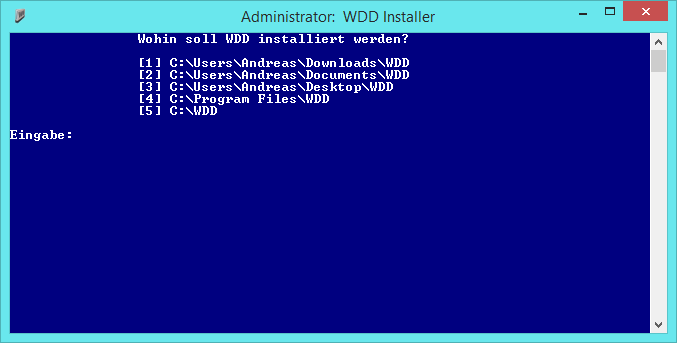
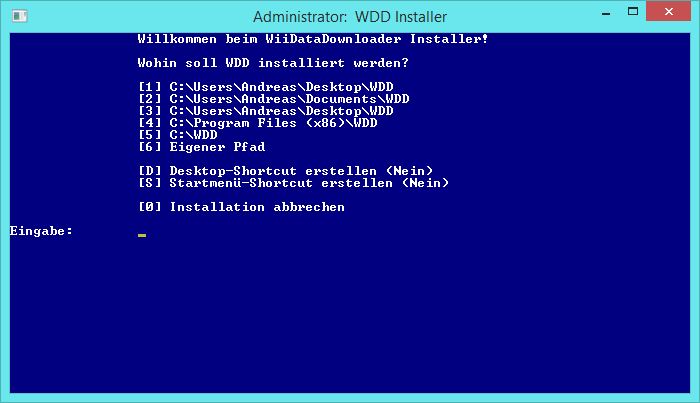
Bilder aktualisiert und neuen Installer mehr promoted

diff --git a/pages/download.php b/pages/download.php
@@ -11,8 +11,8 @@ include("templates/navbar.php");
 	    		<div class="col-lg-12">
 					<h1><b>Downloade</b> WDD</h1>
 					<h3>WiiDataDownloader - ein Wii-Homebrew-Downloader für Windows.</h3>
-		<a class="btn btn-lg btn-danger" href="https://raw.githubusercontent.com/Brawl345/WiiDataDownloader/master/WDD%20installieren.exe" role="button">Download</a><br><br>
-		<a class="btn btn-lg btn-warning" href="https://raw.githubusercontent.com/WiiDatabase/Inno-Setups/master/WiiDataDownloader/Output/WDD-setup.exe" role="button">Teste den neuen Installer</a><br>
+					<a class="btn btn-lg btn-success" href="https://raw.githubusercontent.com/WiiDatabase/Inno-Setups/master/WiiDataDownloader/Output/WDD-setup.exe" role="button">Download</a><br><br>
+					<a class="btn btn-small btn-link" href="https://raw.githubusercontent.com/Brawl345/WiiDataDownloader/master/WDD%20installieren.exe" role="button">Benutze den alten Installer</a><br>
 					<h3>(fr&uuml;he Alpha)</h3>
 	    		</div>
 	    	</div>
@@ -23,10 +23,13 @@ include("templates/navbar.php");
 	<div class="container">
 	<div class="row centered">
 	    <div class="col-lg-12">
+		  <h3>So installierst du den WiiDataDownloader mit unserem neuen Installer:</h3>
+		  <a href="img/wddinstaller-new.png"><img class="img-responsive responsive-centered" src="img/wddinstaller-new.png" alt="Installiere WDD"></a><br>
+		  <h3>Alter Installer:</h3>
           <a href="img/wddinstaller1.png"><img class="img-responsive responsive-centered" src="img/wddinstaller1.png" alt="Führe den Installer aus"></a><br>
-          <a href="img/wddinstaller4.png"><img class="img-responsive responsive-centered" src="img/wddinstaller2.png" alt="Bestätige die UAC-Warnung"></a><br>
-          <a href="img/wddinstaller5.png"><img class="img-responsive responsive-centered" src="img/wddinstaller3.png" alt="Wähle einen Installationsordner"></a><br>
-          <a href="img/wddinstaller6.png"><img class="img-responsive responsive-centered" src="img/wddinstaller4.png" alt="Fertig!"></a><br>
+          <a href="img/wddinstaller2.png"><img class="img-responsive responsive-centered" src="img/wddinstaller2.png" alt="Bestätige die UAC-Warnung"></a><br>
+          <a href="img/wddinstaller3.png"><img class="img-responsive responsive-centered" src="img/wddinstaller3.png" alt="Wähle einen Installationsordner"></a><br>
+          <a href="img/wddinstaller4.png"><img class="img-responsive responsive-centered" src="img/wddinstaller4.png" alt="Fertig!"></a><br>
 			</div>
 			</div>
 			</div>

diff --git a/pages/index.php b/pages/index.php
@@ -23,7 +23,7 @@ include("templates/navbar.php");
 	    			<img class="hidden-xs hidden-sm hidden-md" src="img/arrow1.png" alt="Pfeil">
 	    		</div>
 	    		<div class="col-lg-8">
-	    			<img class="img-responsive" src="img/app-bg.png" alt="WDD Screenshot"><br>
+	    			<img class="img-responsive" src="img/wdd.png" alt="WDD Screenshot"><br>
 	    		</div>
 	    		<div class="col-lg-2">
 	    			<br>
@@ -75,15 +75,23 @@ include("templates/navbar.php");
 					  <ol class="carousel-indicators">
 					    <li data-target="#carousel-example-generic" data-slide-to="0" class="active"></li>
 					    <li data-target="#carousel-example-generic" data-slide-to="1"></li>
+						<li data-target="#carousel-example-generic" data-slide-to="2"></li>
+						<li data-target="#carousel-example-generic" data-slide-to="3"></li>
 					  </ol>
 					
 					  <!-- Wrapper for slides -->
 					  <div class="carousel-inner">
 					    <div class="item active">
-					      <img src="img/wdd1.png" height="643" width="820" alt="Downloadansicht">
+					      <a href="img/wdd.png"><img src="img/wdd.png" alt="Hauptmenü"></a>
 					    </div>
 					    <div class="item">
-					      <img src="img/wdd2.png" height="403" width="700" alt="Optionen">
+					      <a href="img/wdd1.png"><img src="img/wdd1.png" alt="Downloadansicht"></a>
+					    </div>
+					    <div class="item">
+					      <a href="img/wdd2.png"><img src="img/wdd2.png" alt="Optionen"></a>
+					    </div>
+						<div class="item">
+					      <a href="img/wdd3.png"><img src="img/wdd3.png" alt="Module"></a>
 					    </div>
 					  </div>
 					</div>
